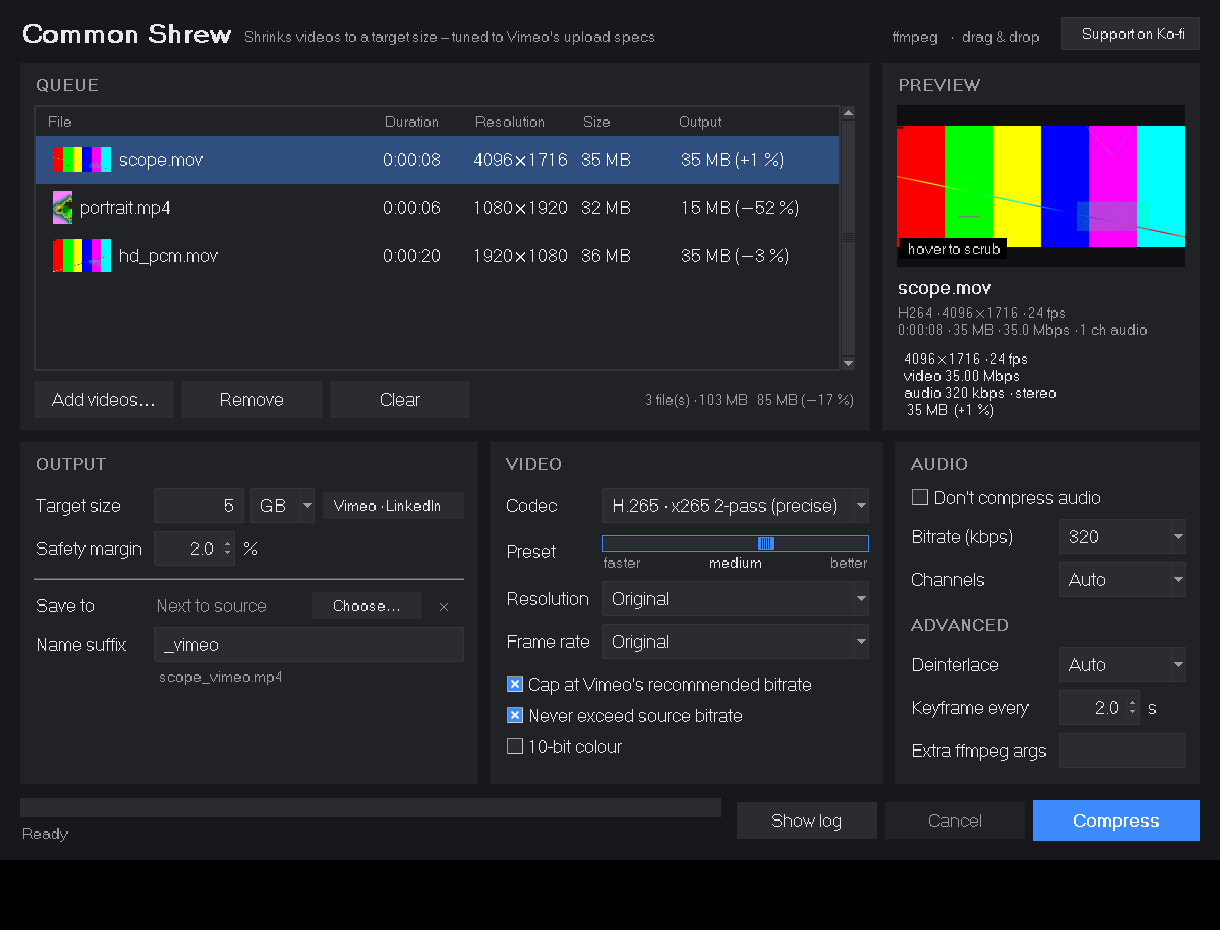
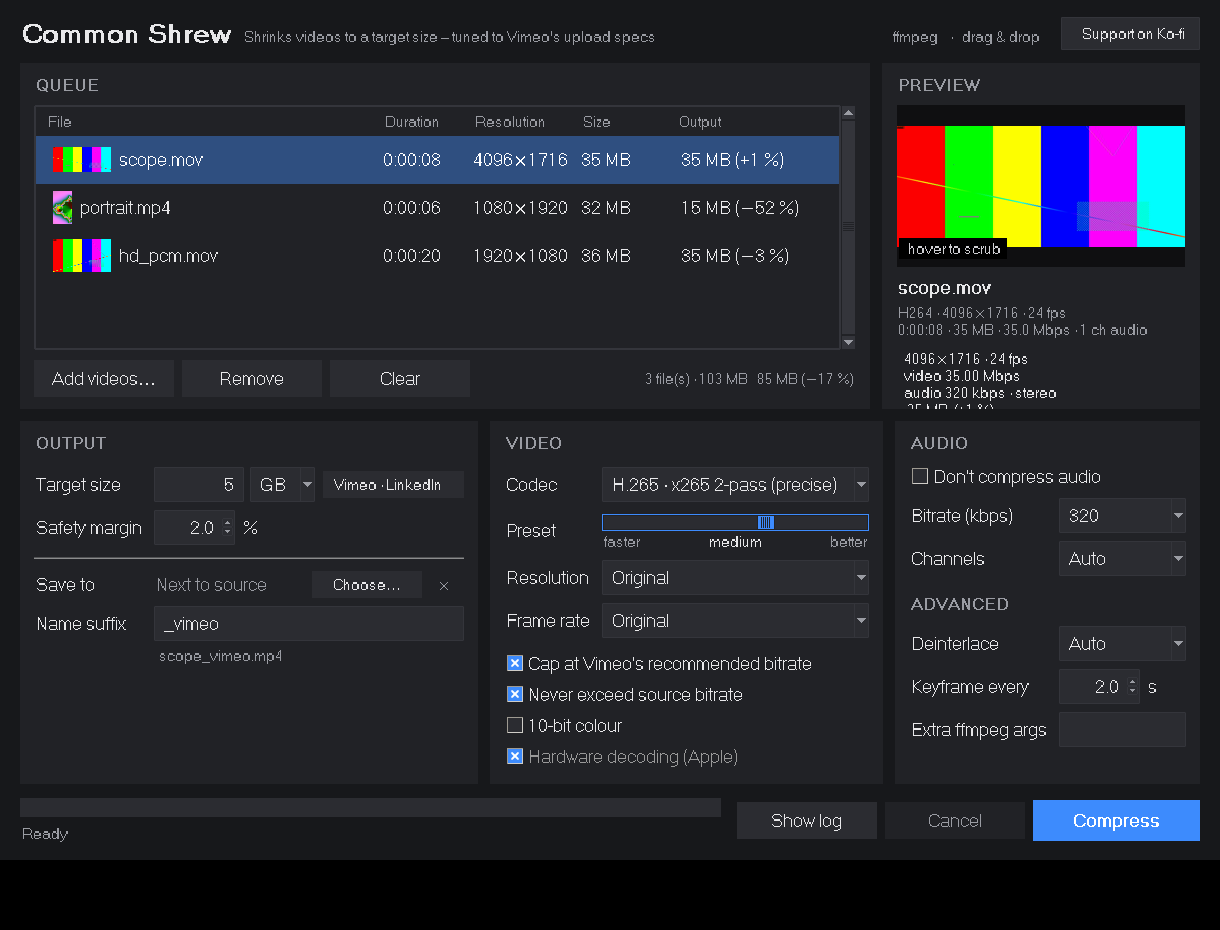
Use VideoToolbox hardware decoding on macOS
Adds -hwaccel videotoolbox (on by default, "Hardware decoding (Apple)"
checkbox, --no-hwdec on the CLI). Speeds up both passes for HEVC/ProRes
sources; a failed run is retried once with software decoding.

Claude-Session: https://claude.ai/code/session_01HG49A6z8YFSNziWa4JF35k

diff --git a/common_shrew.py b/common_shrew.py
@@ -31,6 +31,7 @@ import sys
 import tempfile
 import threading
 import webbrowser
+import dataclasses
 from dataclasses import dataclass, field
 
 # --------------------------------------------------------------------------
@@ -127,6 +128,24 @@ def ffmpeg_has_fps_mode():
         return not m or int(m.group(1)) >= 5
     except Exception:
         return True
+
+
+_HWDEC = {}
+
+
+def hwdec_available():
+    """True on macOS when ffmpeg can decode via VideoToolbox (cached)."""
+    if "ok" not in _HWDEC:
+        ok = False
+        if sys.platform == "darwin" and FFMPEG:
+            try:
+                out = subprocess.run([FFMPEG, "-hide_banner", "-hwaccels"],
+                                     capture_output=True, text=True, timeout=10).stdout
+                ok = "videotoolbox" in out.split()
+            except Exception:
+                ok = False
+        _HWDEC["ok"] = ok
+    return _HWDEC["ok"]
 
 
 def available_encoders():
@@ -314,6 +333,7 @@ class Settings:
     ten_bit: bool = False
     deinterlace: str = "Auto"       # Auto / On / Off
     keyframe_sec: float = 2.0
+    hw_decode: bool = True          # decode the source via VideoToolbox (macOS)
     suffix: str = "_vimeo"
     out_dir: str = ""
     extra_args: str = ""
@@ -466,7 +486,12 @@ def _fps_str(f):
 def build_cmd(plan: Plan, s: Settings, out, pass_no=0, passlog=None):
     """pass_no: 0 = single pass, 1/2 = two-pass."""
     info = plan.info
-    cmd = [FFMPEG, "-hide_banner", "-y", "-nostdin", "-i", info.path]
+    cmd = [FFMPEG, "-hide_banner", "-y", "-nostdin"]
+    if s.hw_decode and hwdec_available():
+        # frames are copied back to system memory automatically for the CPU filters;
+        # unsupported formats fall back to software decoding inside ffmpeg
+        cmd += ["-hwaccel", "videotoolbox"]
+    cmd += ["-i", info.path]
     if not info.has_audio and pass_no != 1:
         cmd += ["-f", "lavfi", "-i", "anullsrc=channel_layout=stereo:sample_rate=48000"]
 
@@ -599,12 +624,20 @@ class Job:
             self.log("  • " + n)
         tmpdir = tempfile.mkdtemp(prefix="shrew_2pass_")
         passlog = os.path.join(tmpdir, "pass")
-        try:
-            if self.s.codec in ("libx264", "libx265"):
-                self._run(build_cmd(plan, self.s, out, 1, passlog), info.duration, 0, 0.5)
-                self._run(build_cmd(plan, self.s, out, 2, passlog), info.duration, 0.5, 1)
+        def encode(s):
+            if s.codec in ("libx264", "libx265"):
+                self._run(build_cmd(plan, s, out, 1, passlog), info.duration, 0, 0.5)
+                self._run(build_cmd(plan, s, out, 2, passlog), info.duration, 0.5, 1)
             else:
-                self._run(build_cmd(plan, self.s, out, 0), info.duration, 0, 1)
+                self._run(build_cmd(plan, s, out, 0), info.duration, 0, 1)
+        try:
+            try:
+                encode(self.s)
+            except RuntimeError:
+                if not (self.s.hw_decode and hwdec_available()) or self.stop.is_set():
+                    raise
+                self.log("  ⚠ Hardware decoding failed – retrying with software decoding.")
+                encode(dataclasses.replace(self.s, hw_decode=False))
         except BaseException:
             if os.path.exists(out):
                 try:
@@ -721,6 +754,10 @@ TIPS = {
              "MP4 can't hold PCM audio, so in that case the output is saved as .mov "
              "(Vimeo accepts both). Videos without sound still get a silent AAC track.",
     "unit": "Unit for the target size: GB or MB (decimal, 1 GB = 1,000 MB).",
+    "hwdec": "Read (decode) the source video with the Mac's media engine instead of the CPU. "
+             "Speeds up both passes – especially for HEVC and ProRes sources – and leaves more "
+             "CPU for the encoder. The image is identical; unsupported formats fall back to "
+             "software automatically, and a failed run is retried without it. macOS only.",
     "extra": "Additional ffmpeg output options, e.g.  -tune film  or  -metadata title=\"My Film\".\n"
              "For experts – applied to the final pass.",
 }
@@ -903,6 +940,7 @@ def run_gui():
         abr=tk.StringVar(value="320"), ach=tk.StringVar(value="Auto"),
         vcap=tk.BooleanVar(value=True), scap=tk.BooleanVar(value=True),
         ten=tk.BooleanVar(value=False), deint=tk.StringVar(value="Auto"),
+        hwdec=tk.BooleanVar(value=True),
         gop=tk.DoubleVar(value=2.0), suffix=tk.StringVar(value="_vimeo"),
         outdir=tk.StringVar(value=""), extra=tk.StringVar(value=""),
     )
@@ -916,6 +954,7 @@ def run_gui():
             audio_copy=V["acopy"].get(),
             vimeo_cap=V["vcap"].get(), source_cap=V["scap"].get(), ten_bit=V["ten"].get(),
             deinterlace=V["deint"].get(), keyframe_sec=float(V["gop"].get()),
+            hw_decode=V["hwdec"].get(),
             suffix=V["suffix"].get() or "_vimeo", out_dir=V["outdir"].get(),
             extra_args=V["extra"].get())
 
@@ -1280,10 +1319,13 @@ def run_gui():
     chk.grid(row=5, column=0, columnspan=2, sticky="w", pady=(6, 0))
     for r, (key, txt) in enumerate((("vcap", "Cap at Vimeo's recommended bitrate"),
                                     ("scap", "Never exceed source bitrate"),
-                                    ("ten", "10-bit colour"))):
+                                    ("ten", "10-bit colour"),
+                                    ("hwdec", "Hardware decoding (Apple)"))):
         cb = ttk.Checkbutton(chk, text=txt, variable=V[key])
         cb.grid(row=r, column=0, sticky="w", pady=2)
         Tooltip(cb, TIPS[key])
+        if key == "hwdec" and sys.platform != "darwin":
+            cb.state(["disabled"])
 
     ac = card(sets, "Audio")
     ac.grid(row=0, column=2, sticky="nsew")
@@ -1770,6 +1812,8 @@ def run_cli(argv):
     ap.add_argument("--no-source-cap", action="store_true")
     ap.add_argument("--10bit", dest="ten", action="store_true")
     ap.add_argument("--deinterlace", default="Auto", choices=["Auto", "On", "Off"])
+    ap.add_argument("--no-hwdec", action="store_true",
+                    help="don't use VideoToolbox hardware decoding (macOS)")
     ap.add_argument("--outdir", default="")
     ap.add_argument("--dry-run", action="store_true", help="only show plan + command")
     a = ap.parse_args(argv)
@@ -1779,6 +1823,7 @@ def run_cli(argv):
                  resolution=res, fps=a.fps, audio_kbps=a.audio, audio_channels=a.channels,
                  vimeo_cap=not a.no_vimeo_cap, source_cap=not a.no_source_cap,
                  ten_bit=a.ten, deinterlace=a.deinterlace, out_dir=a.outdir,
+                 hw_decode=not a.no_hwdec,
                  audio_copy=a.copy_audio)
     stop = threading.Event()
     for f in a.files:

diff --git a/CLAUDE.md b/CLAUDE.md
@@ -53,6 +53,10 @@ Git-ignored: `.venv/`, `samples/`, video files, and the launcher flags `.use_sys
      uses `slow-firstpass=0` for speed.
    - Colour tags come from the source and fall back to BT.709.
    - A silent `anullsrc` track is added when the source has no audio.
+   - Hardware decoding: `-hwaccel videotoolbox` is used when `Settings.hw_decode` is on
+     (the default) and `hwdec_available()` is true, which only happens on macOS. If a run
+     fails with it, `Job.run()` retries once with software decoding. Encoding stays
+     x265/x264 unless a VideoToolbox codec is chosen.
 5. **`Job.run()`:**
    - Runs the passes and parses `out_time_us` for progress.
    - Cancelling deletes the partial output.

diff --git a/README.md b/README.md
@@ -35,6 +35,8 @@ recommended compression settings.
 - **Never exceeds the source bitrate**, so efficient sources don't get bigger.
 - **H.265 by default**, for the best quality at a given size (x265, preset `medium`). x264 is
   available for maximum compatibility.
+- **Apple hardware decoding** speeds up both passes, especially for HEVC and ProRes
+  sources, and falls back to software automatically.
 - **Apple hardware encoding** (VideoToolbox) for fast results.
 - **Desktop app:**
   - Queue with drag & drop and thumbnails.
